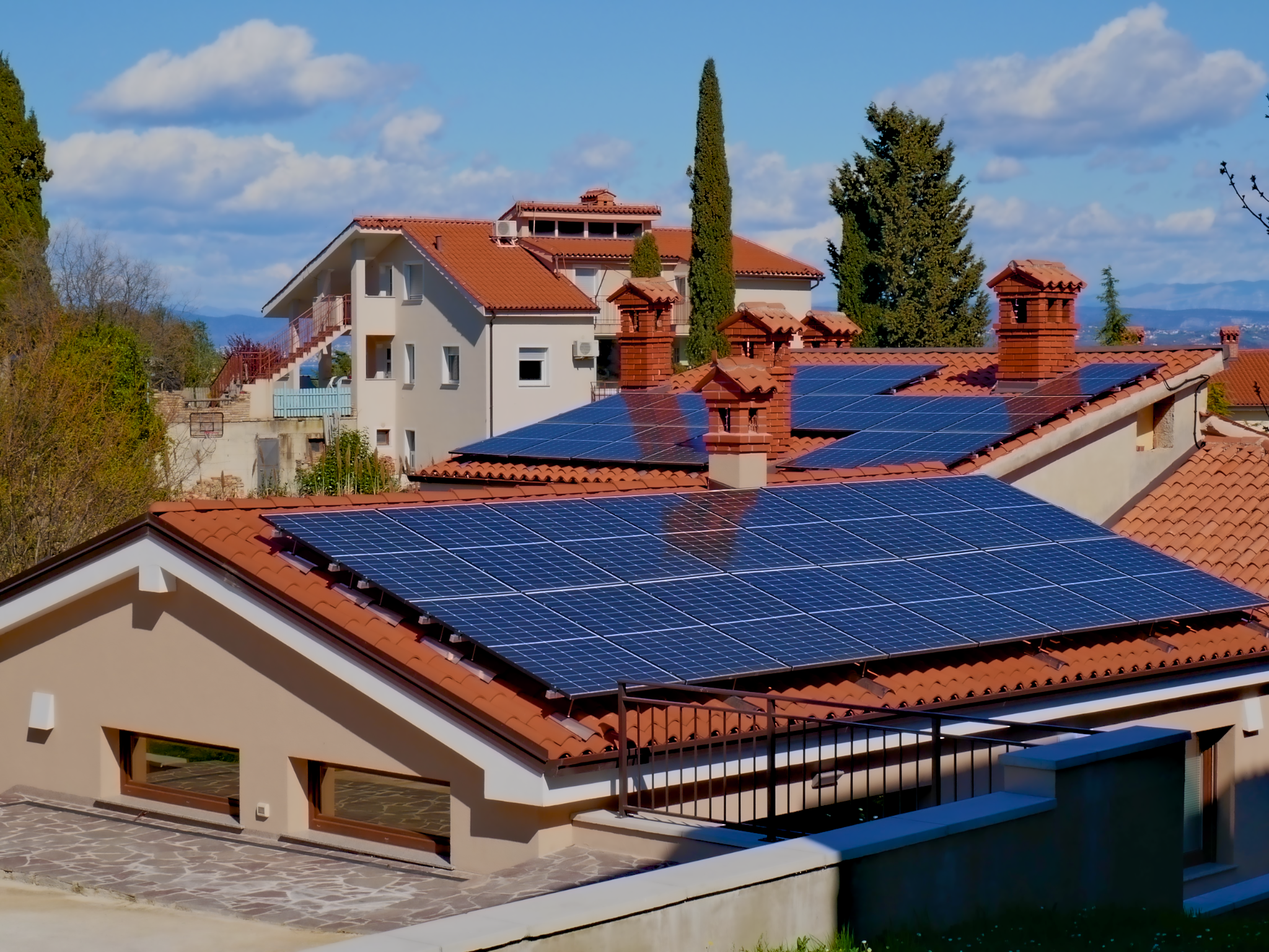
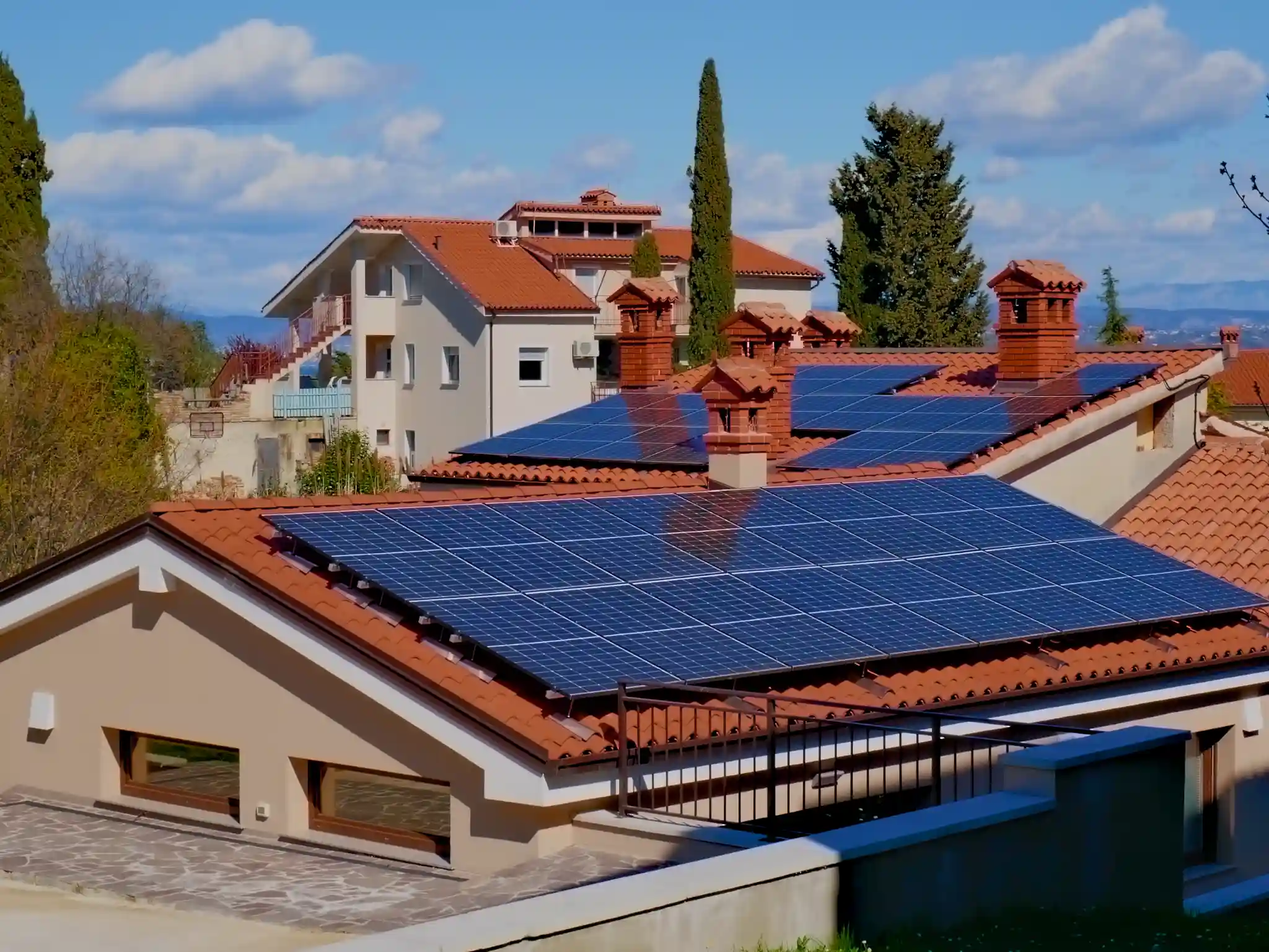
update landing page images with new webp based images

diff --git a/Application/frontend/app/page.tsx b/Application/frontend/app/page.tsx
@@ -12,91 +12,91 @@ export default function Home() {
         "Plan your solar setup, schedule appliances, check panel health, and prepare for power outages.",
     },
     {
-      image: "/solar/solar (1).jpg",
+      image: "/solar/solar (1).webp",
       link: "/home",
       title: "Smarter Solar for Every Home",
       description:
         "Plan your solar setup, schedule appliances, check panel health, and prepare for power outages.",
     },
     {
-      image: "/solar/solar (2).jpg",
+      image: "/solar/solar (2).webp",
       link: "/home",
       title: "Smarter Solar for Every Home",
       description:
         "Plan your solar setup, schedule appliances, check panel health, and prepare for power outages.",
     },
     {
-      image: "/solar/solar (3).jpg",
+      image: "/solar/solar (3).webp",
       link: "/home",
       title: "Smarter Solar for Every Home",
       description:
         "Plan your solar setup, schedule appliances, check panel health, and prepare for power outages.",
     },
     {
-      image: "/solar/solar (4).jpg",
+      image: "/solar/solar (4).webp",
       link: "/home",
       title: "Smarter Solar for Every Home",
       description:
         "Plan your solar setup, schedule appliances, check panel health, and prepare for power outages.",
     },
     {
-      image: "/solar/solar (5).jpg",
+      image: "/solar/solar (5).webp",
       link: "/home",
       title: "Smarter Solar for Every Home",
       description:
         "Plan your solar setup, schedule appliances, check panel health, and prepare for power outages.",
     },
     {
-      image: "/solar/solar (6).jpg",
+      image: "/solar/solar (6).webp",
       link: "/home",
       title: "Smarter Solar for Every Home",
       description:
         "Plan your solar setup, schedule appliances, check panel health, and prepare for power outages.",
     },
     {
-      image: "/solar/solar (7).jpg",
+      image: "/solar/solar (7).webp",
       link: "/home",
       title: "Smarter Solar for Every Home",
       description:
         "Plan your solar setup, schedule appliances, check panel health, and prepare for power outages.",
     },
     {
-      image: "/solar/solar (8).jpg",
+      image: "/solar/solar (8).webp",
       link: "/home",
       title: "Smarter Solar for Every Home",
       description:
         "Plan your solar setup, schedule appliances, check panel health, and prepare for power outages.",
     },
     {
-      image: "/solar/solar (9).jpg",
+      image: "/solar/solar (9).webp",
       link: "/home",
       title: "Smarter Solar for Every Home",
       description:
         "Plan your solar setup, schedule appliances, check panel health, and prepare for power outages.",
     },
     {
-      image: "/solar/solar (10).jpg",
+      image: "/solar/solar (10).webp",
       link: "/home",
       title: "Smarter Solar for Every Home",
       description:
         "Plan your solar setup, schedule appliances, check panel health, and prepare for power outages.",
     },
     {
-      image: "/solar/solar (11).jpg",
+      image: "/solar/solar (11).webp",
       link: "/home",
       title: "Smarter Solar for Every Home",
       description:
         "Plan your solar setup, schedule appliances, check panel health, and prepare for power outages.",
     },
     {
-      image: "/solar/solar (12).jpg",
+      image: "/solar/solar (12).webp",
       link: "/home",
       title: "Smarter Solar for Every Home",
       description:
         "Plan your solar setup, schedule appliances, check panel health, and prepare for power outages.",
     },
     {
-      image: "/solar/solar (13).jpg",
+      image: "/solar/solar (13).webp",
       link: "/home",
       title: "Smarter Solar for Every Home",
       description:
